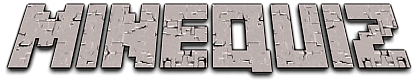
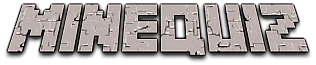
Splash Screen and Fonts

diff --git a/lib/main.dart b/lib/main.dart
@@ -1,3 +1,5 @@
+import 'dart:async';
+
 import 'package:flutter/material.dart';
 import 'package:minequiz/widget/messaging_widget.dart';
 import 'package:minequiz/item_selector.dart';
@@ -18,12 +20,38 @@ class MainPage extends StatelessWidget {
   const MainPage({this.appTitle});
 
   @override
-  Widget build(BuildContext context) => Scaffold(
-        appBar: AppBar(
-          title: Image.asset("assets/minequiz.png", fit: BoxFit.contain, height:32),
-          centerTitle: true
-        ),
-        body: SelectorWidget(),
-        backgroundColor: const Color(0xffc7c7c7),
+  Widget build(BuildContext context) => MaterialApp(
+        title: 'MineQuiz',
+        theme: ThemeData(primarySwatch: Colors.brown),
+        home: MineQuizHome(),
+        debugShowCheckedModeBanner: false,
       );
+}
+class MineQuizHome extends StatefulWidget{
+  @override
+  _MineQuizHomeState createState() => _MineQuizHomeState();
+}
+class _MineQuizHomeState extends State<MineQuizHome>{
+  @override
+  void initState(){
+    super.initState();
+    Timer(Duration(seconds: 3),
+    ()=>Navigator.pushReplacement(context, 
+                                  MaterialPageRoute(builder:
+                                                    (context) => 
+                                                    SelectorWidget()
+                                                    )
+                                  )
+    );
+  }
+  Widget build(BuildContext context){
+    return MaterialApp(
+      debugShowCheckedModeBanner: false,
+      title: "Splash",
+      home: Container(
+      color: Color(0xffc7c7c7),
+      child: Image.asset('assets/minequiz.png')
+    )
+    );
+  }
 }

diff --git a/lib/item_selector.dart b/lib/item_selector.dart
@@ -8,6 +8,7 @@ import 'dart:io';
 class SelectorWidget extends StatefulWidget{
   @override
   _SelectorWidgetState createState() => _SelectorWidgetState();
+  
 }
 
 class _SelectorWidgetState extends State<SelectorWidget>{
@@ -15,14 +16,24 @@ class _SelectorWidgetState extends State<SelectorWidget>{
   
   @override
   Widget build(BuildContext context){
-    return Column(
+    return MaterialApp(
+      title: "Home Page",
+      debugShowCheckedModeBanner: false,
+      home: Scaffold(
+      appBar: AppBar(title: Image.asset('assets/minequiz.png', scale: 0.3)),
+      body: Container(
+      color: Color(0xffc7c7c7),
+      child: Column(
       crossAxisAlignment: CrossAxisAlignment.center,
       children: [
         const Gap(40),
-        Container(alignment: Alignment.center, child: Text("Featured Recipe", style:TextStyle(fontFamily: 'Minecrafter', fontSize: 30.0),)),
+        Container(alignment: Alignment.center, child: Text("Featured Recipe", style:TextStyle(fontFamily: 'Minecrafter', fontSize: 30.0, color: Color(0xff373737)),)),
         Container(alignment: Alignment.center,child: Image.asset("assets/images/craft_arrow.png"))
         
       ],
+    )
+    )
+    )
     );
   }
 }
